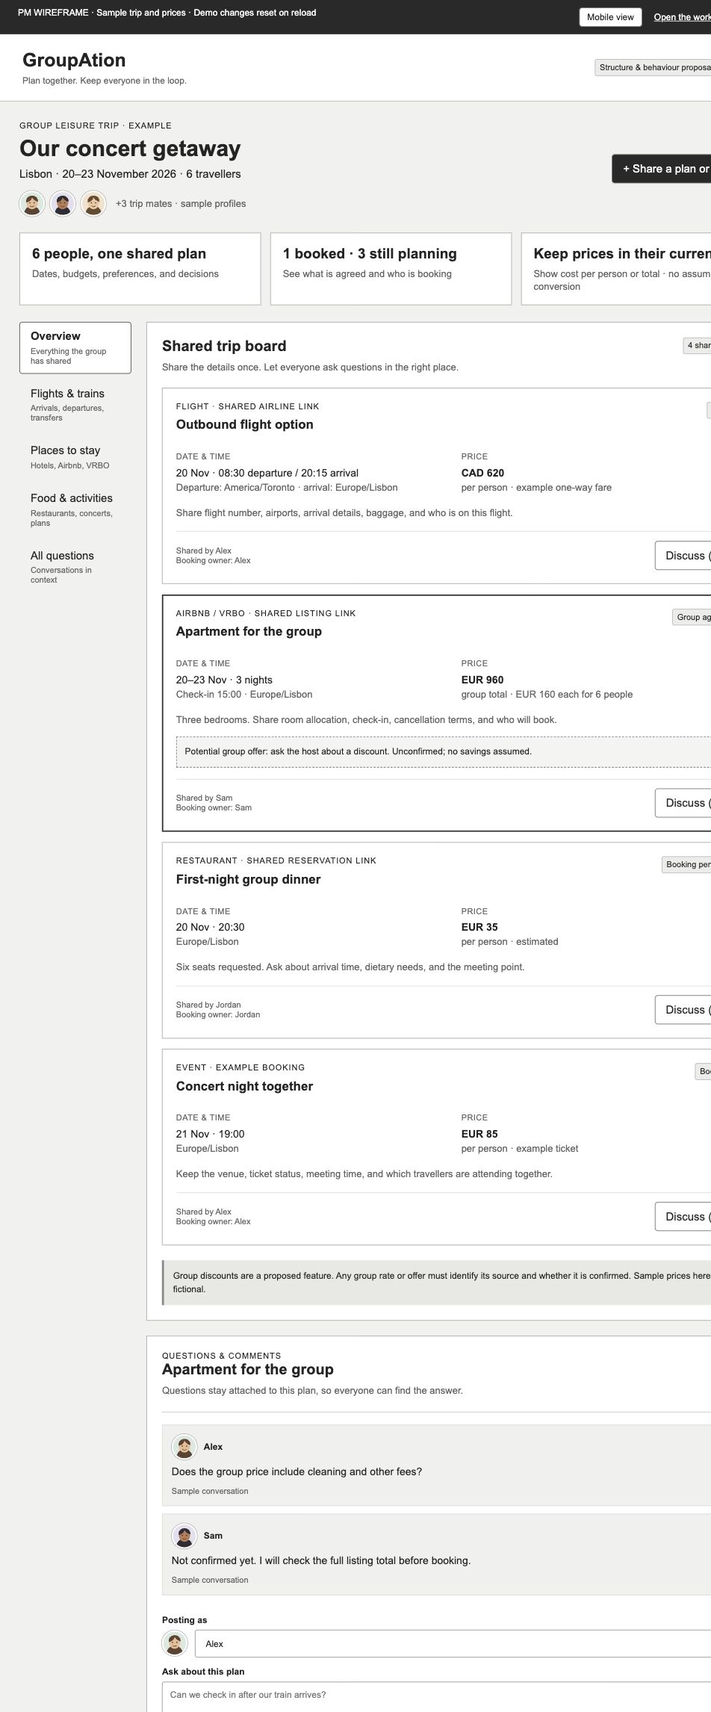
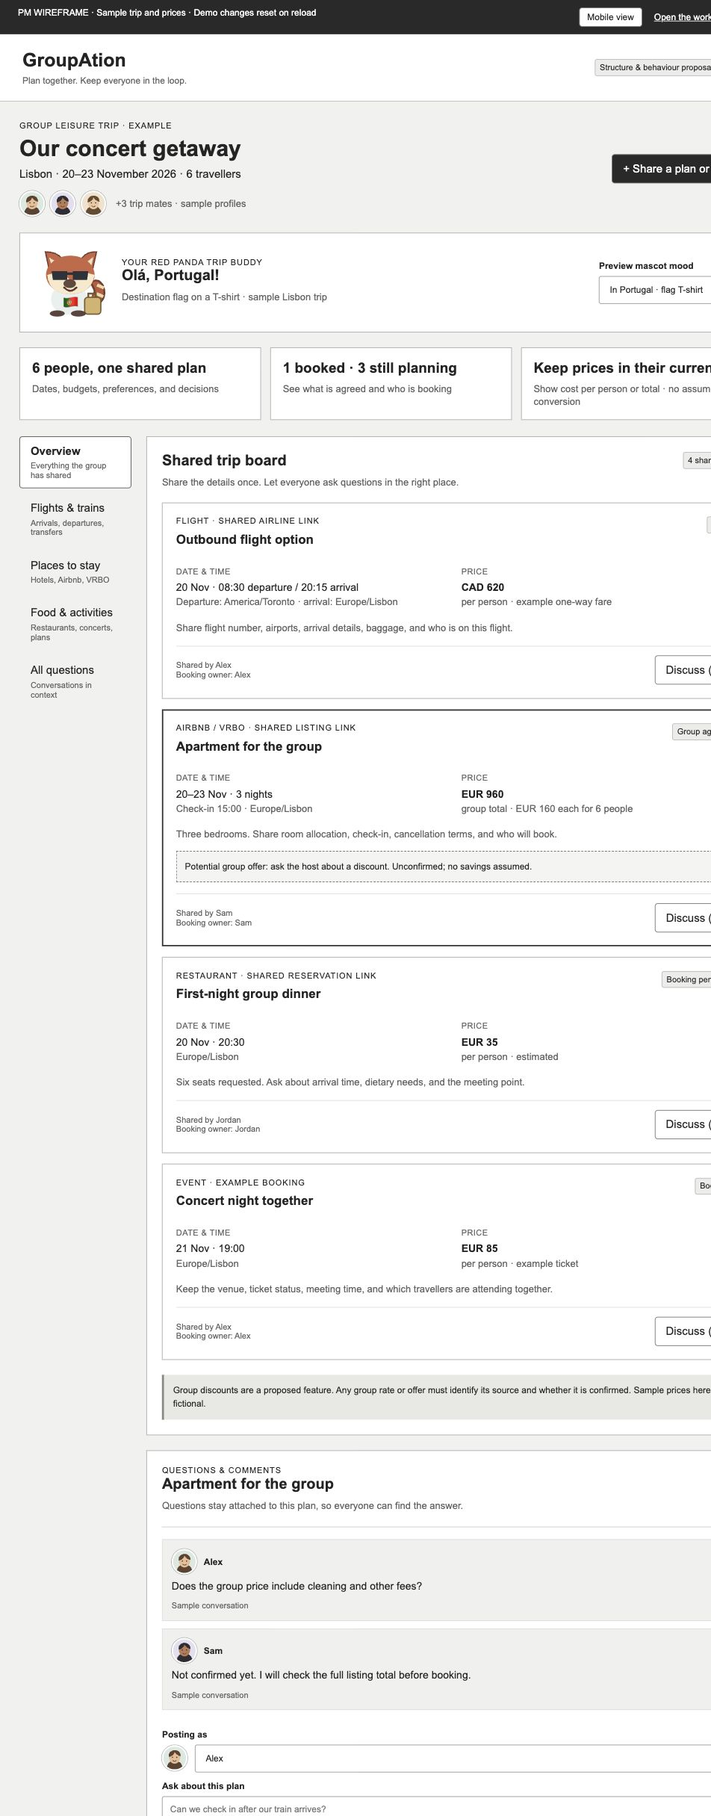
Drift: add red panda planning progress mascot to wireframe

diff --git a/drift/public/groupation-wireframe.html b/drift/public/groupation-wireframe.html
@@ -5,7 +5,7 @@
 <title>GroupAtion — PM wireframe</title>
 <link rel="icon" href="data:,">
 <style>
-:root{font-family:Arial,sans-serif;color:#242424;background:#f1f1ef;font-size:15px}*{box-sizing:border-box}body{margin:0}button,input,select,textarea{font:inherit}button,a{touch-action:manipulation}button{cursor:pointer;border:1px solid #777;background:#fff;padding:10px 14px;border-radius:4px;color:inherit}button:hover{background:#ededeb}button:focus-visible,a:focus-visible,input:focus-visible,select:focus-visible,textarea:focus-visible{outline:3px solid #5076ad;outline-offset:3px}.primary{background:#292929;color:white}.primary:hover{background:#444}.quiet{color:#656565;font-size:13px}.tag{font-size:11px;text-transform:uppercase;letter-spacing:.08em}.banner{background:#292929;color:white;padding:10px 24px;font-size:12px;display:flex;justify-content:space-between;gap:14px}.banner a{color:white}.preview-toggle{padding:5px 10px;font-size:12px;white-space:nowrap;color:#222;background:#fff}.preview-controls{display:flex;gap:16px;align-items:center}#app-frame{container-type:inline-size;container-name:device}.device-mobile #app-frame{width:390px;max-width:calc(100% - 24px);margin:20px auto;border:8px solid #333;border-radius:28px;max-height:844px;overflow:auto;background:#f1f1ef;box-shadow:0 12px 40px #0002}.device-mobile header{display:block}.device-mobile header>.badge{margin-top:10px}.device-mobile button{min-height:44px}header{background:#fff;border-bottom:1px solid #bbb;padding:20px 30px;display:flex;justify-content:space-between;align-items:center;gap:15px}.brand{font-size:25px;font-weight:bold}.headnote{font-size:12px;color:#666;margin-top:6px}.wrap{max-width:1450px;margin:auto;padding:26px}.tripbar{display:flex;justify-content:space-between;align-items:center;gap:20px;margin-bottom:22px}h1{font-size:30px;margin:6px 0 9px}h2{font-size:20px;margin:0 0 8px}h3{font-size:17px;margin:0 0 12px}p{line-height:1.45}.summary{display:grid;grid-template-columns:repeat(3,1fr);gap:12px;margin-bottom:22px}.metric{background:#fff;border:1px solid #aaa;padding:16px}.metric strong{display:block;margin-bottom:7px;font-size:19px}.workspace{display:grid;grid-template-columns:185px minmax(0,1fr) 340px;gap:20px;align-items:start}.nav{display:grid;gap:7px}.nav button{text-align:left;border-color:transparent;background:transparent}.nav button[aria-pressed=true]{border-color:#555;background:#fff;font-weight:bold}.nav small{display:block;font-weight:normal;font-size:11px;margin-top:5px;color:#666}.panel{background:#fff;border:1px solid #aaa;padding:20px}.sectionhead{display:flex;justify-content:space-between;gap:10px;align-items:start;margin-bottom:18px}.sectionhead p{margin:0}.cards{display:grid;gap:14px}.card{border:1px solid #aaa;padding:18px;background:#fff}.card.selected{border:2px solid #333;padding:17px}.cardtop{display:flex;justify-content:space-between;gap:10px;align-items:start}.badge{display:inline-block;background:#ececea;border:1px solid #bbb;border-radius:3px;padding:4px 6px;font-size:11px;white-space:nowrap}.fields{display:grid;grid-template-columns:1fr 1fr;gap:13px 18px;margin:15px 0}.fields dt{font-size:11px;color:#666;text-transform:uppercase;margin-bottom:5px;letter-spacing:.04em}.fields dd{margin:0;font-size:14px;line-height:1.4}.offer{background:#f4f4f2;border:1px dashed #777;padding:11px;font-size:12px;line-height:1.5}.cardfooter{display:flex;justify-content:space-between;align-items:center;gap:12px;border-top:1px solid #ddd;padding-top:12px;margin-top:15px}.cardfooter .quiet{font-size:11px}.thread{position:sticky;top:16px}.threadintro{padding-bottom:14px;border-bottom:1px solid #ccc}.threadintro p{margin:5px 0}.messages{max-height:390px;overflow:auto;padding:16px 0}.message{background:#f0f0ee;border:1px solid #ddd;margin-bottom:10px;padding:12px}.message strong{font-size:12px}.message p{font-size:14px;margin:6px 0}.message .quiet{font-size:11px}.empty{padding:18px 0;color:#666;font-size:14px}label{display:grid;gap:6px;margin-bottom:12px;font-size:12px;font-weight:bold}textarea,input,select{width:100%;border:1px solid #999;border-radius:3px;background:#fff;color:#222;padding:10px;font-weight:normal}textarea{min-height:88px;resize:vertical}.thread form button{width:100%}.note{padding:12px;border-left:3px solid #888;background:#e8e8e5;font-size:12px;line-height:1.5;margin-top:20px}.questionrow{display:block;width:100%;text-align:left;margin:10px 0}.questionrow span{display:block;margin-top:6px;font-size:12px;color:#666}dialog{max-width:650px;width:calc(100% - 30px);border:1px solid #555;border-radius:5px;padding:25px}dialog::backdrop{background:#0007}.formgrid{display:grid;grid-template-columns:1fr 1fr;gap:0 16px}.dialoghead{display:flex;justify-content:space-between;gap:12px}.dialogfoot{display:flex;justify-content:end;gap:10px}.span2{grid-column:1/-1}.avatar{display:inline-flex;width:34px;height:34px;flex:0 0 34px;border-radius:50%;overflow:hidden;border:2px solid white;box-shadow:0 0 0 1px #bbb}.avatar svg{width:100%;height:100%}.authorrow{display:flex;align-items:center;gap:9px}.groupfaces{display:flex;align-items:center;margin-top:14px;gap:7px}.groupfaces .quiet{margin-left:6px}.posting-person{display:flex;align-items:center;gap:10px}.posting-person select{flex:1}.sr{position:absolute;width:1px;height:1px;overflow:hidden;clip:rect(0,0,0,0)}@container device (max-width:1150px){.workspace{grid-template-columns:150px minmax(0,1fr)}.thread{grid-column:2;position:static}.summary{grid-template-columns:1fr 1fr 1fr}}@container device (max-width:700px){.banner{padding:10px 15px;display:block}.banner a{display:block;margin-top:6px}header{padding:15px}.wrap{padding:15px}.tripbar{align-items:start;flex-direction:column}h1{font-size:25px}.summary{grid-template-columns:1fr}.workspace{display:block}.nav{display:flex;overflow:auto;margin-bottom:15px}.nav button{flex:0 0 auto}.nav small{display:none}.panel{padding:15px}.thread{margin-top:16px}.fields,.formgrid{grid-template-columns:1fr}.span2{grid-column:auto}.metric{padding:12px}.cardtop{display:block}.badge{margin-bottom:8px}.cardfooter{align-items:start}.sectionhead{flex-direction:column}}
+:root{font-family:Arial,sans-serif;color:#242424;background:#f1f1ef;font-size:15px}*{box-sizing:border-box}body{margin:0}button,input,select,textarea{font:inherit}button,a{touch-action:manipulation}button{cursor:pointer;border:1px solid #777;background:#fff;padding:10px 14px;border-radius:4px;color:inherit}button:hover{background:#ededeb}button:focus-visible,a:focus-visible,input:focus-visible,select:focus-visible,textarea:focus-visible{outline:3px solid #5076ad;outline-offset:3px}.primary{background:#292929;color:white}.primary:hover{background:#444}.quiet{color:#656565;font-size:13px}.tag{font-size:11px;text-transform:uppercase;letter-spacing:.08em}.banner{background:#292929;color:white;padding:10px 24px;font-size:12px;display:flex;justify-content:space-between;gap:14px}.banner a{color:white}.preview-toggle{padding:5px 10px;font-size:12px;white-space:nowrap;color:#222;background:#fff}.preview-controls{display:flex;gap:16px;align-items:center}#app-frame{container-type:inline-size;container-name:device}.device-mobile #app-frame{width:390px;max-width:calc(100% - 24px);margin:20px auto;border:8px solid #333;border-radius:28px;max-height:844px;overflow:auto;background:#f1f1ef;box-shadow:0 12px 40px #0002}.device-mobile header{display:block}.device-mobile header>.badge{margin-top:10px}.device-mobile button{min-height:44px}header{background:#fff;border-bottom:1px solid #bbb;padding:20px 30px;display:flex;justify-content:space-between;align-items:center;gap:15px}.brand{font-size:25px;font-weight:bold}.headnote{font-size:12px;color:#666;margin-top:6px}.wrap{max-width:1450px;margin:auto;padding:26px}.tripbar{display:flex;justify-content:space-between;align-items:center;gap:20px;margin-bottom:22px}h1{font-size:30px;margin:6px 0 9px}h2{font-size:20px;margin:0 0 8px}h3{font-size:17px;margin:0 0 12px}p{line-height:1.45}.summary{display:grid;grid-template-columns:repeat(3,1fr);gap:12px;margin-bottom:22px}.metric{background:#fff;border:1px solid #aaa;padding:16px}.metric strong{display:block;margin-bottom:7px;font-size:19px}.workspace{display:grid;grid-template-columns:185px minmax(0,1fr) 340px;gap:20px;align-items:start}.nav{display:grid;gap:7px}.nav button{text-align:left;border-color:transparent;background:transparent}.nav button[aria-pressed=true]{border-color:#555;background:#fff;font-weight:bold}.nav small{display:block;font-weight:normal;font-size:11px;margin-top:5px;color:#666}.panel{background:#fff;border:1px solid #aaa;padding:20px}.sectionhead{display:flex;justify-content:space-between;gap:10px;align-items:start;margin-bottom:18px}.sectionhead p{margin:0}.cards{display:grid;gap:14px}.card{border:1px solid #aaa;padding:18px;background:#fff}.card.selected{border:2px solid #333;padding:17px}.cardtop{display:flex;justify-content:space-between;gap:10px;align-items:start}.badge{display:inline-block;background:#ececea;border:1px solid #bbb;border-radius:3px;padding:4px 6px;font-size:11px;white-space:nowrap}.fields{display:grid;grid-template-columns:1fr 1fr;gap:13px 18px;margin:15px 0}.fields dt{font-size:11px;color:#666;text-transform:uppercase;margin-bottom:5px;letter-spacing:.04em}.fields dd{margin:0;font-size:14px;line-height:1.4}.offer{background:#f4f4f2;border:1px dashed #777;padding:11px;font-size:12px;line-height:1.5}.cardfooter{display:flex;justify-content:space-between;align-items:center;gap:12px;border-top:1px solid #ddd;padding-top:12px;margin-top:15px}.cardfooter .quiet{font-size:11px}.thread{position:sticky;top:16px}.threadintro{padding-bottom:14px;border-bottom:1px solid #ccc}.threadintro p{margin:5px 0}.messages{max-height:390px;overflow:auto;padding:16px 0}.message{background:#f0f0ee;border:1px solid #ddd;margin-bottom:10px;padding:12px}.message strong{font-size:12px}.message p{font-size:14px;margin:6px 0}.message .quiet{font-size:11px}.empty{padding:18px 0;color:#666;font-size:14px}label{display:grid;gap:6px;margin-bottom:12px;font-size:12px;font-weight:bold}textarea,input,select{width:100%;border:1px solid #999;border-radius:3px;background:#fff;color:#222;padding:10px;font-weight:normal}textarea{min-height:88px;resize:vertical}.thread form button{width:100%}.note{padding:12px;border-left:3px solid #888;background:#e8e8e5;font-size:12px;line-height:1.5;margin-top:20px}.questionrow{display:block;width:100%;text-align:left;margin:10px 0}.questionrow span{display:block;margin-top:6px;font-size:12px;color:#666}dialog{max-width:650px;width:calc(100% - 30px);border:1px solid #555;border-radius:5px;padding:25px}dialog::backdrop{background:#0007}.formgrid{display:grid;grid-template-columns:1fr 1fr;gap:0 16px}.dialoghead{display:flex;justify-content:space-between;gap:12px}.dialogfoot{display:flex;justify-content:end;gap:10px}.span2{grid-column:1/-1}.avatar{display:inline-flex;width:34px;height:34px;flex:0 0 34px;border-radius:50%;overflow:hidden;border:2px solid white;box-shadow:0 0 0 1px #bbb}.avatar svg{width:100%;height:100%}.authorrow{display:flex;align-items:center;gap:9px}.groupfaces{display:flex;align-items:center;margin-top:14px;gap:7px}.groupfaces .quiet{margin-left:6px}.posting-person{display:flex;align-items:center;gap:10px}.posting-person select{flex:1}.panda-card{display:flex;align-items:center;gap:18px;background:#fff;border:1px solid #aaa;padding:14px 18px;margin:0 0 20px}.panda-card svg{width:100px;height:100px;flex:0 0 100px}.panda-copy{flex:1}.panda-copy p{margin:5px 0}.panda-card label{max-width:210px;margin:0}.device-mobile .panda-card{flex-wrap:wrap}.device-mobile .panda-card label{max-width:none;width:100%}.sr{position:absolute;width:1px;height:1px;overflow:hidden;clip:rect(0,0,0,0)}@container device (max-width:1150px){.workspace{grid-template-columns:150px minmax(0,1fr)}.thread{grid-column:2;position:static}.summary{grid-template-columns:1fr 1fr 1fr}}@container device (max-width:700px){.banner{padding:10px 15px;display:block}.banner a{display:block;margin-top:6px}header{padding:15px}.wrap{padding:15px}.tripbar{align-items:start;flex-direction:column}h1{font-size:25px}.summary{grid-template-columns:1fr}.workspace{display:block}.nav{display:flex;overflow:auto;margin-bottom:15px}.nav button{flex:0 0 auto}.nav small{display:none}.panel{padding:15px}.thread{margin-top:16px}.fields,.formgrid{grid-template-columns:1fr}.span2{grid-column:auto}.metric{padding:12px}.cardtop{display:block}.badge{margin-bottom:8px}.cardfooter{align-items:start}.sectionhead{flex-direction:column}}
 </style>
 </head>
 <body>
@@ -14,6 +14,7 @@
 <header><div><div class="brand">GroupAtion</div><div class="headnote">Plan together. Keep everyone in the loop.</div></div><span class="badge">Structure &amp; behaviour proposal for Jessica</span></header>
 <main class="wrap">
 <section class="tripbar"><div><div class="tag">Group leisure trip · Example</div><h1>Our concert getaway</h1><div>Lisbon · 20–23 November 2026 · 6 travellers</div><div class="groupfaces" id="group-faces" aria-label="Example group members"></div></div><button class="primary" id="add-item">+ Share a plan or booking</button></section>
+<section class="panda-card" aria-label="Red panda trip buddy"><div id="panda-art"></div><div class="panda-copy"><div class="tag">Your red panda trip buddy</div><h2 id="panda-heading">Getting organized together</h2><p class="quiet" id="panda-caption"></p></div><label>Preview mascot mood<select id="panda-stage"><option value="auto">Follow planning progress</option><option value="stressed">Just starting · stressed</option><option value="happier">Plans coming together · happy</option><option value="ready">Ready · sunglasses & bag</option><option value="destination">In Portugal · flag T-shirt</option></select></label></section>
 <section class="summary" aria-label="Trip overview"><div class="metric"><strong>6 people, one shared plan</strong><span class="quiet">Dates, budgets, preferences, and decisions</span></div><div class="metric"><strong id="booking-count">1 booked · 3 still planning</strong><span class="quiet">See what is agreed and who is booking</span></div><div class="metric"><strong>Keep prices in their currency</strong><span class="quiet">Show cost per person or total · no assumed conversion</span></div></section>
 <div class="workspace">
 <nav class="nav" aria-label="Trip sections"><button data-tab="all" aria-pressed="true">Overview<small>Everything the group has shared</small></button><button data-tab="transport" aria-pressed="false">Flights &amp; trains<small>Arrivals, departures, transfers</small></button><button data-tab="stays" aria-pressed="false">Places to stay<small>Hotels, Airbnb, VRBO</small></button><button data-tab="plans" aria-pressed="false">Food &amp; activities<small>Restaurants, concerts, plans</small></button><button data-tab="questions" aria-pressed="false">All questions<small>Conversations in context</small></button></nav>
@@ -36,6 +37,16 @@ const $=s=>document.querySelector(s);
 $('#mobile-toggle').addEventListener('click',()=>{const mobile=document.body.classList.toggle('device-mobile');$('#mobile-toggle').textContent=mobile?'Desktop view':'Mobile view';$('#mobile-toggle').setAttribute('aria-pressed',String(mobile));$('#status').textContent=mobile?'Mobile app layout preview':'Desktop layout preview';});
 const escape=s=>String(s??'').replace(/[&<>"']/g,c=>({'&':'&amp;','<':'&lt;','>':'&gt;','"':'&quot;',"'":'&#39;'}[c]));
 const titles={all:['Shared trip board','Share the details once. Let everyone ask questions in the right place.'],transport:['Flights & trains','Share journeys, arrival details, stations, airports, and meeting points.'],stays:['Places to stay','Compare hotels, Airbnb, and VRBO options with clear prices and booking ownership.'],plans:['Food & activities','Keep restaurants, concerts, and activities together with the itinerary.'],questions:['All questions','Every conversation keeps a link to the plan it concerns.']};
+function renderPanda(){
+ const chosen=$('#panda-stage').value;
+ const planned=items.filter(i=>i.state!=='Idea').length;
+ const stage=chosen==='auto'?(items.every(i=>i.state==='Booked')?'ready':planned>=2?'happier':'stressed'):chosen;
+ const travel=stage==='ready'||stage==='destination';
+ const heading={stressed:'So many ideas! Let’s make a plan.',happier:'Our trip is coming together!',ready:'Packed and ready to go.',destination:'Olá, Portugal!'};
+ $('#panda-heading').textContent=heading[stage];
+ $('#panda-caption').textContent=stage==='destination'?'Destination flag on a T-shirt · sample Lisbon trip':stage==='ready'?'Sunglasses on, bag packed, group plans in place.':stage==='happier'?'Clearer plans and shared decisions make our buddy happier.':'A little overwhelmed at first. One shared decision at a time.';
+ $('#panda-art').innerHTML=`<svg viewBox="0 0 120 120" role="img" aria-label="Cute red panda: ${escape(stage)}"><path d="M88 100c38 0 27-44 11-41-16 3 8 16-5 23" fill="#bc593b" stroke="#763c30" stroke-width="3"/><path d="m102 66 11 5m-12 9 11 5" stroke="#f4d8ac" stroke-width="5"/><ellipse cx="57" cy="89" rx="29" ry="25" fill="${stage==='destination'?'#e8f0ed':'#5b443d'}"/><path d="M25 42 19 13q22 0 29 15m26 0q9-16 27-15l-7 32" fill="#c96645" stroke="#763c30" stroke-width="2"/><path d="m25 22 5 17 12-7m40 0 10 7 4-18" fill="#f5dfbd"/><ellipse cx="59" cy="50" rx="39" ry="31" fill="#c96645"/><path d="M22 50q3 31 36 31 34 0 40-31L77 44 62 61 43 44Z" fill="#fae8ca"/><ellipse cx="58" cy="64" rx="10" ry="7" fill="#65483d"/>${travel?'<path d="M29 44h25v14H31zm34 0h25l-2 14H63z" fill="#30323a"/><path d="M53 48h11" stroke="#30323a" stroke-width="4"/>':'<ellipse cx="42" cy="49" rx="4" ry="5" fill="#332c29"/><ellipse cx="75" cy="49" rx="4" ry="5" fill="#332c29"/>'}${stage==='stressed'?'<path d="m33 38 15 5m20 0 15-5M50 72q8-8 16 0" fill="none" stroke="#5d392c" stroke-width="3" stroke-linecap="round"/>':'<path d="M49 70q10 11 20 0" fill="none" stroke="#5d392c" stroke-width="3" stroke-linecap="round"/>'}${travel?'<rect x="82" y="86" width="26" height="27" rx="5" fill="#d5b36c" stroke="#765b30" stroke-width="2"/><path d="M88 86v-6h12v6" fill="none" stroke="#765b30" stroke-width="3"/>':''}${stage==='destination'?'<text x="58" y="102" font-size="23" text-anchor="middle">🇵🇹</text>':''}<ellipse cx="38" cy="112" rx="12" ry="5" fill="#5b443d"/><ellipse cx="72" cy="112" rx="12" ry="5" fill="#5b443d"/></svg>`;
+}
 function render(){
  document.querySelectorAll('[data-tab]').forEach(b=>b.setAttribute('aria-pressed',String(b.dataset.tab===tab)));
  $('#section-title').textContent=titles[tab][0];$('#section-description').textContent=titles[tab][1];
@@ -47,7 +58,7 @@ function render(){
  }else{
   $('#cards').innerHTML=visible.map(i=>`<article class="card ${i.id===selected?'selected':''}"><div class="cardtop"><div><div class="tag">${escape(i.provider)}</div><h3 style="margin-top:8px">${escape(i.title)}</h3></div><span class="badge">${escape(i.state)}</span></div><dl class="fields"><div><dt>Date & time</dt><dd>${escape(i.date)}<br><span class="quiet">${escape(i.time)}</span></dd></div><div><dt>Price</dt><dd><strong>${escape(i.price)}</strong><br><span class="quiet">${escape(i.basis)}</span></dd></div></dl><p class="quiet">${escape(i.detail)}</p>${i.url?`<p class="quiet">Shared link: ${escape(i.url)}</p>`:''}${i.offer?`<div class="offer">${escape(i.offer)}</div>`:''}<div class="cardfooter"><span class="quiet">Shared by ${escape(i.owner)}<br>Booking owner: ${escape(i.owner)}</span><button data-discuss="${escape(i.id)}">Discuss (${(threads[i.id]||[]).length})</button></div></article>`).join('')||'<p class="empty">No plans shared in this section yet.</p>';
  }
- renderThread();
+ renderThread();renderPanda();
 }
 function portrait(name){
  const palette={Alex:['#dae8df','#5e4230','#e9bd93'],Sam:['#e5dff0','#302c35','#b97b55'],Jordan:['#f3e1cc','#664a2b','#efc7a1']};
@@ -68,6 +79,7 @@ $('#question-form').addEventListener('submit',e=>{e.preventDefault();const body=
 $('#add-item').addEventListener('click',()=>$('#item-dialog').showModal());
 ['close-dialog','cancel-dialog'].forEach(id=>$('#'+id).addEventListener('click',()=>$('#item-dialog').close()));
 $('#item-form').addEventListener('submit',e=>{e.preventDefault();const f=new FormData(e.target);const id='item-'+Date.now();items.push({id,category:f.get('category'),title:f.get('title'),provider:f.get('provider')||'Shared plan',date:f.get('date'),time:f.get('time')||'Time zone to confirm',price:f.get('currency')+' '+Number(f.get('price')).toFixed(2),basis:f.get('basis'),state:f.get('state'),owner:$('#actor').value,detail:f.get('details')||'Add any details your trip mates should know.',url:f.get('url')});threads[id]=[];selected=id;tab=f.get('category');$('#item-dialog').close();e.target.reset();render();$('#status').textContent='Plan shared with the group'});
+$('#panda-stage').addEventListener('change',renderPanda);
 $('#actor').addEventListener('change',()=>{$('#current-avatar').innerHTML=portrait($('#actor').value)});
 $('#group-faces').innerHTML=['Alex','Sam','Jordan'].map(portrait).join('')+'<span class=quiet>+3 trip mates · sample profiles</span>';
 render();

diff --git a/drift/JESSICA-DESIGN-HANDOFF.md b/drift/JESSICA-DESIGN-HANDOFF.md
@@ -66,6 +66,17 @@ Hotels, Airbnb/VRBO hosts, transport, or activities may have group offers. This 
 
 An offer should show its source, terms, group size requirement, and verification state. Unverified offers must be labelled clearly. Do not count hypothetical savings in a confirmed price.
 
+## Cute red panda trip mascot
+
+The mascot is a cute red panda whose mood follows the group's planning progress. Keep the tone warm, encouraging, playful, and visually consistent across desktop and mobile.
+
+- **Just starting:** a little stressed or overwhelmed while key trip details are undecided.
+- **Planning:** becomes more relaxed and happier as the group adds details and agrees on decisions.
+- **Travel-ready:** happy, wearing sunglasses and carrying a travel bag when the required essentials are ready.
+- **At the destination:** wears a T-shirt with the flag for the trip's explicitly selected current location. The demo uses Portugal for its fictional Lisbon trip. For multi-country trips, update the shirt for the current stop.
+
+The wireframe includes a mascot-state preview selector and a simple illustrative progress response. Jessica should refine the artwork and motion. Agree with Ben on production readiness rules: use confirmed required details, not the number of optional items. Arrival/current location should be explicit trip state; do not infer physical location from the browser. Use a text mood label, accessible alternatives, and reduced-motion behaviour. The prototype's SVG is a functional art placeholder, not the final character asset.
+
 ## Mobile app and preview requirements
 
 GroupAtion must support a mobile app experience as well as desktop. The wireframe includes a **Mobile view / Desktop view** button: it switches the same live demo into a 390-pixel phone layout without discarding the current discussion or shared items.
@@ -113,7 +124,7 @@ You are working with Jessica, the designer for Team Drift's GroupAtion app. Ben 
 
 Read `drift/GROUPATION-PLAN.md`, this `drift/JESSICA-DESIGN-HANDOFF.md`, `drift/DATA-MODEL.md`, and `drift/mockdata.md`. Run the app and open `/groupation-wireframe.html` to review the PM's clickable proposal. Carry forward Jessica's Groupation branding commit `0055822`. Use the wireframe to understand structure and behaviour; Jessica owns the final visual design.
 
-Design the shared trip dashboard and booking cards for flights/trains, hotels/Airbnb/VRBO, restaurants, concerts, and other activities. Make dates, time zones, original currency, price basis, booking state, responsible person, and shared links clear. Design a mobile app experience as well as desktop, and add a Mobile view / Desktop view button that previews the same app and preserves its current state. Use touch-friendly phone navigation, cards, forms, and contextual discussion panels. Treat home-screen installation as a separate implementation task and do not claim native iOS/Android delivery from a responsive preview alone. Use friendly circular member headshots beside messages and in the trip member list, with member names and initials fallbacks. The wireframe portraits are fictional samples; use actual member-provided photos in the product. Add an interaction design for questions/comments attached to each item, an All questions view, and general trip discussion. Distinguish proposed group offers from confirmed prices. Keep real booking/payment integrations outside the class MVP.
+Include the cute red panda trip buddy: initially stressed, increasingly happy as required plans are completed, travel-ready with sunglasses and a bag, and wearing the current destination’s flag on a T-shirt at arrival. Refine the sample SVG and agree on progress/arrival states with Ben. Design the shared trip dashboard and booking cards for flights/trains, hotels/Airbnb/VRBO, restaurants, concerts, and other activities. Make dates, time zones, original currency, price basis, booking state, responsible person, and shared links clear. Design a mobile app experience as well as desktop, and add a Mobile view / Desktop view button that previews the same app and preserves its current state. Use touch-friendly phone navigation, cards, forms, and contextual discussion panels. Treat home-screen installation as a separate implementation task and do not claim native iOS/Android delivery from a responsive preview alone. Use friendly circular member headshots beside messages and in the trip member list, with member names and initials fallbacks. The wireframe portraits are fictional samples; use actual member-provided photos in the product. Add an interaction design for questions/comments attached to each item, an All questions view, and general trip discussion. Distinguish proposed group offers from confirmed prices. Keep real booking/payment integrations outside the class MVP.
 
 Coordinate actual code/file ownership with Ben and Ronak before editing shared frontend files. Preserve Ronak's landing-page/onboarding copy and existing working trip flows. Agree on new persisted data fields with Ben; the standalone wireframe is an in-memory demonstration, not the finished feature. If a backend field is unavailable, label the UI as a proposal rather than pretending it works.
 
